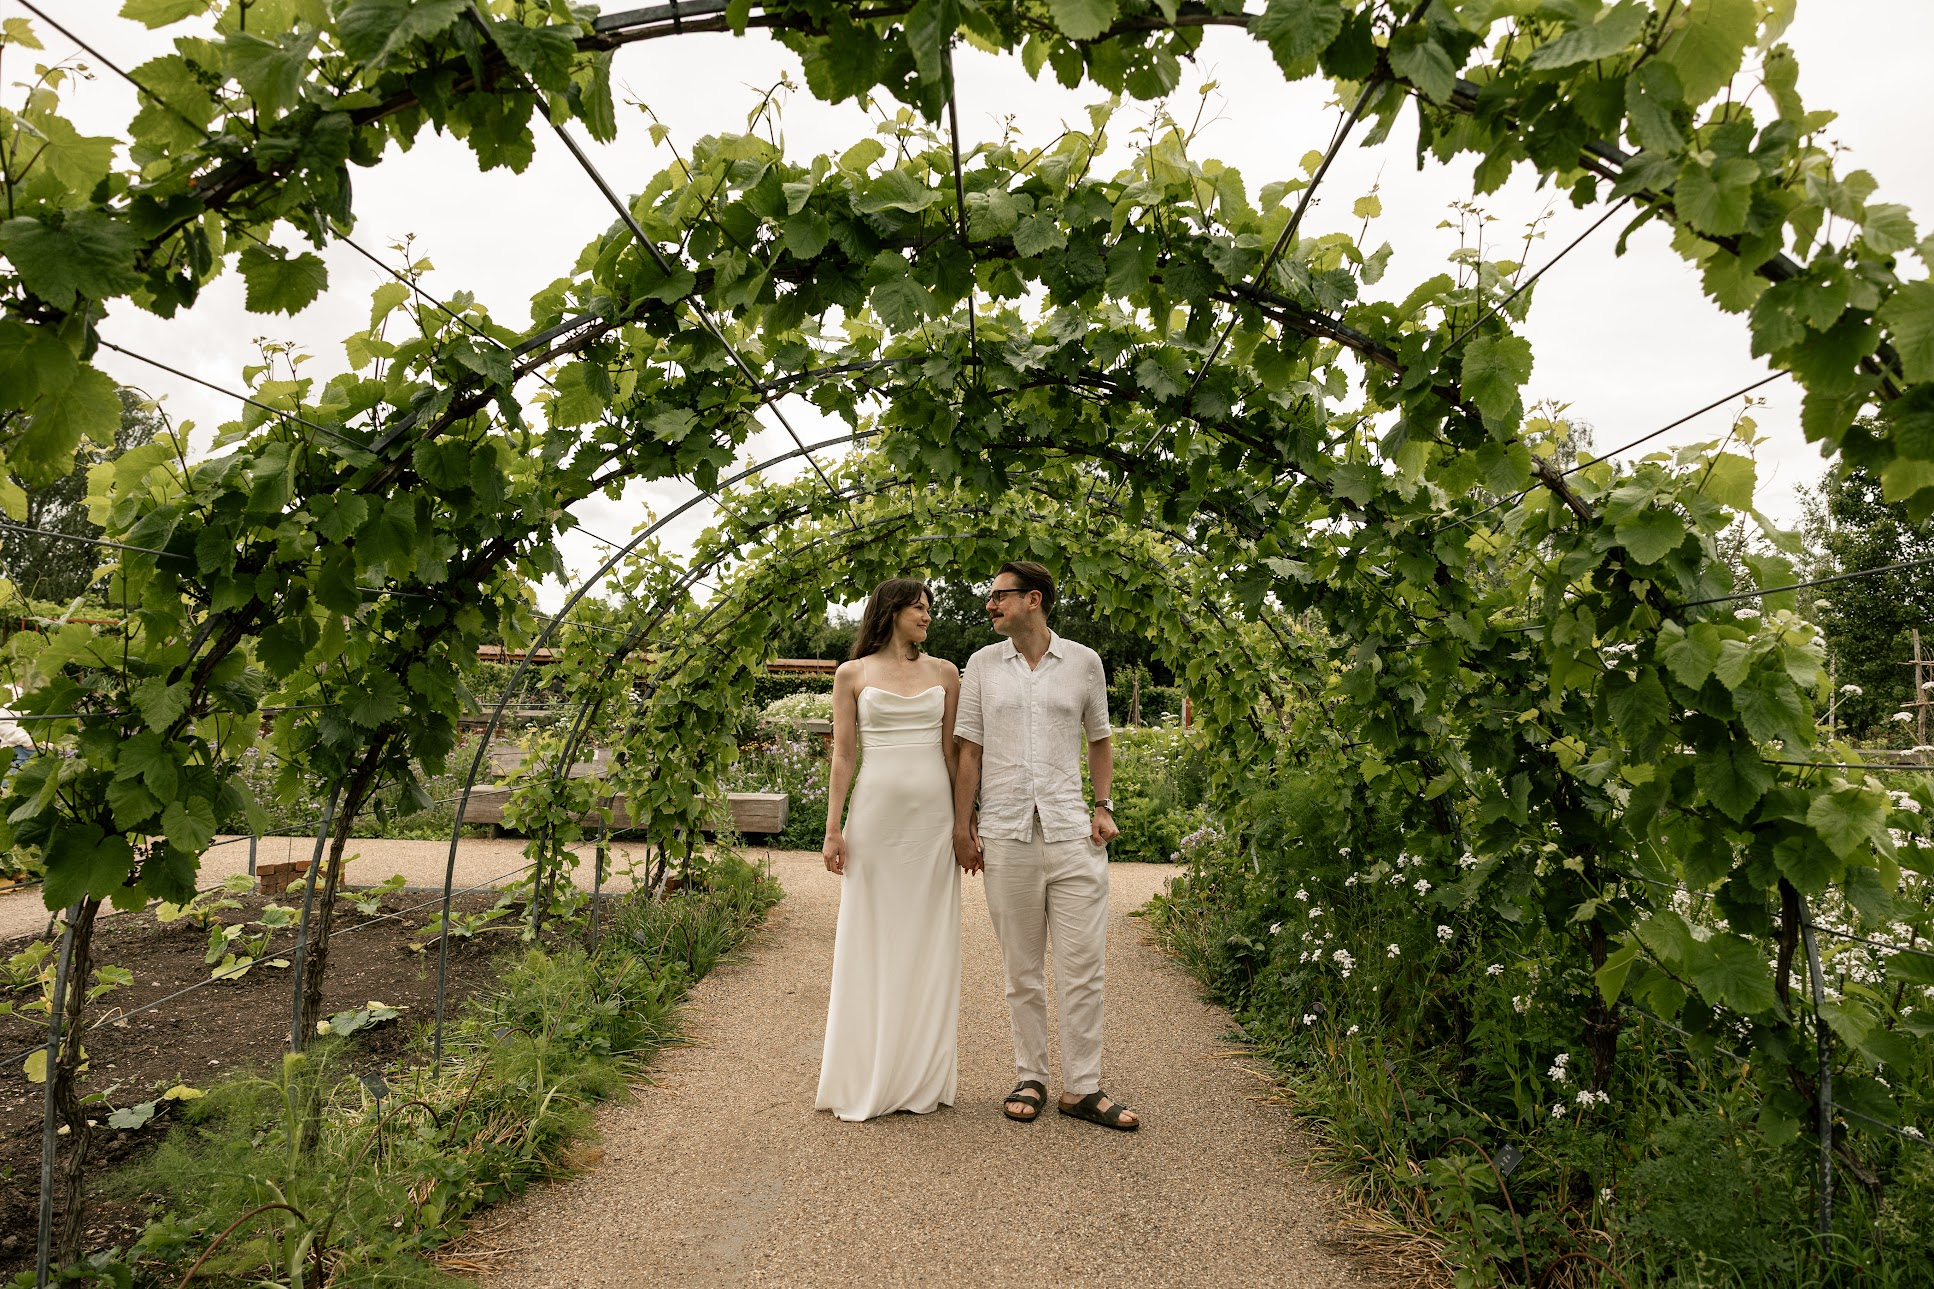
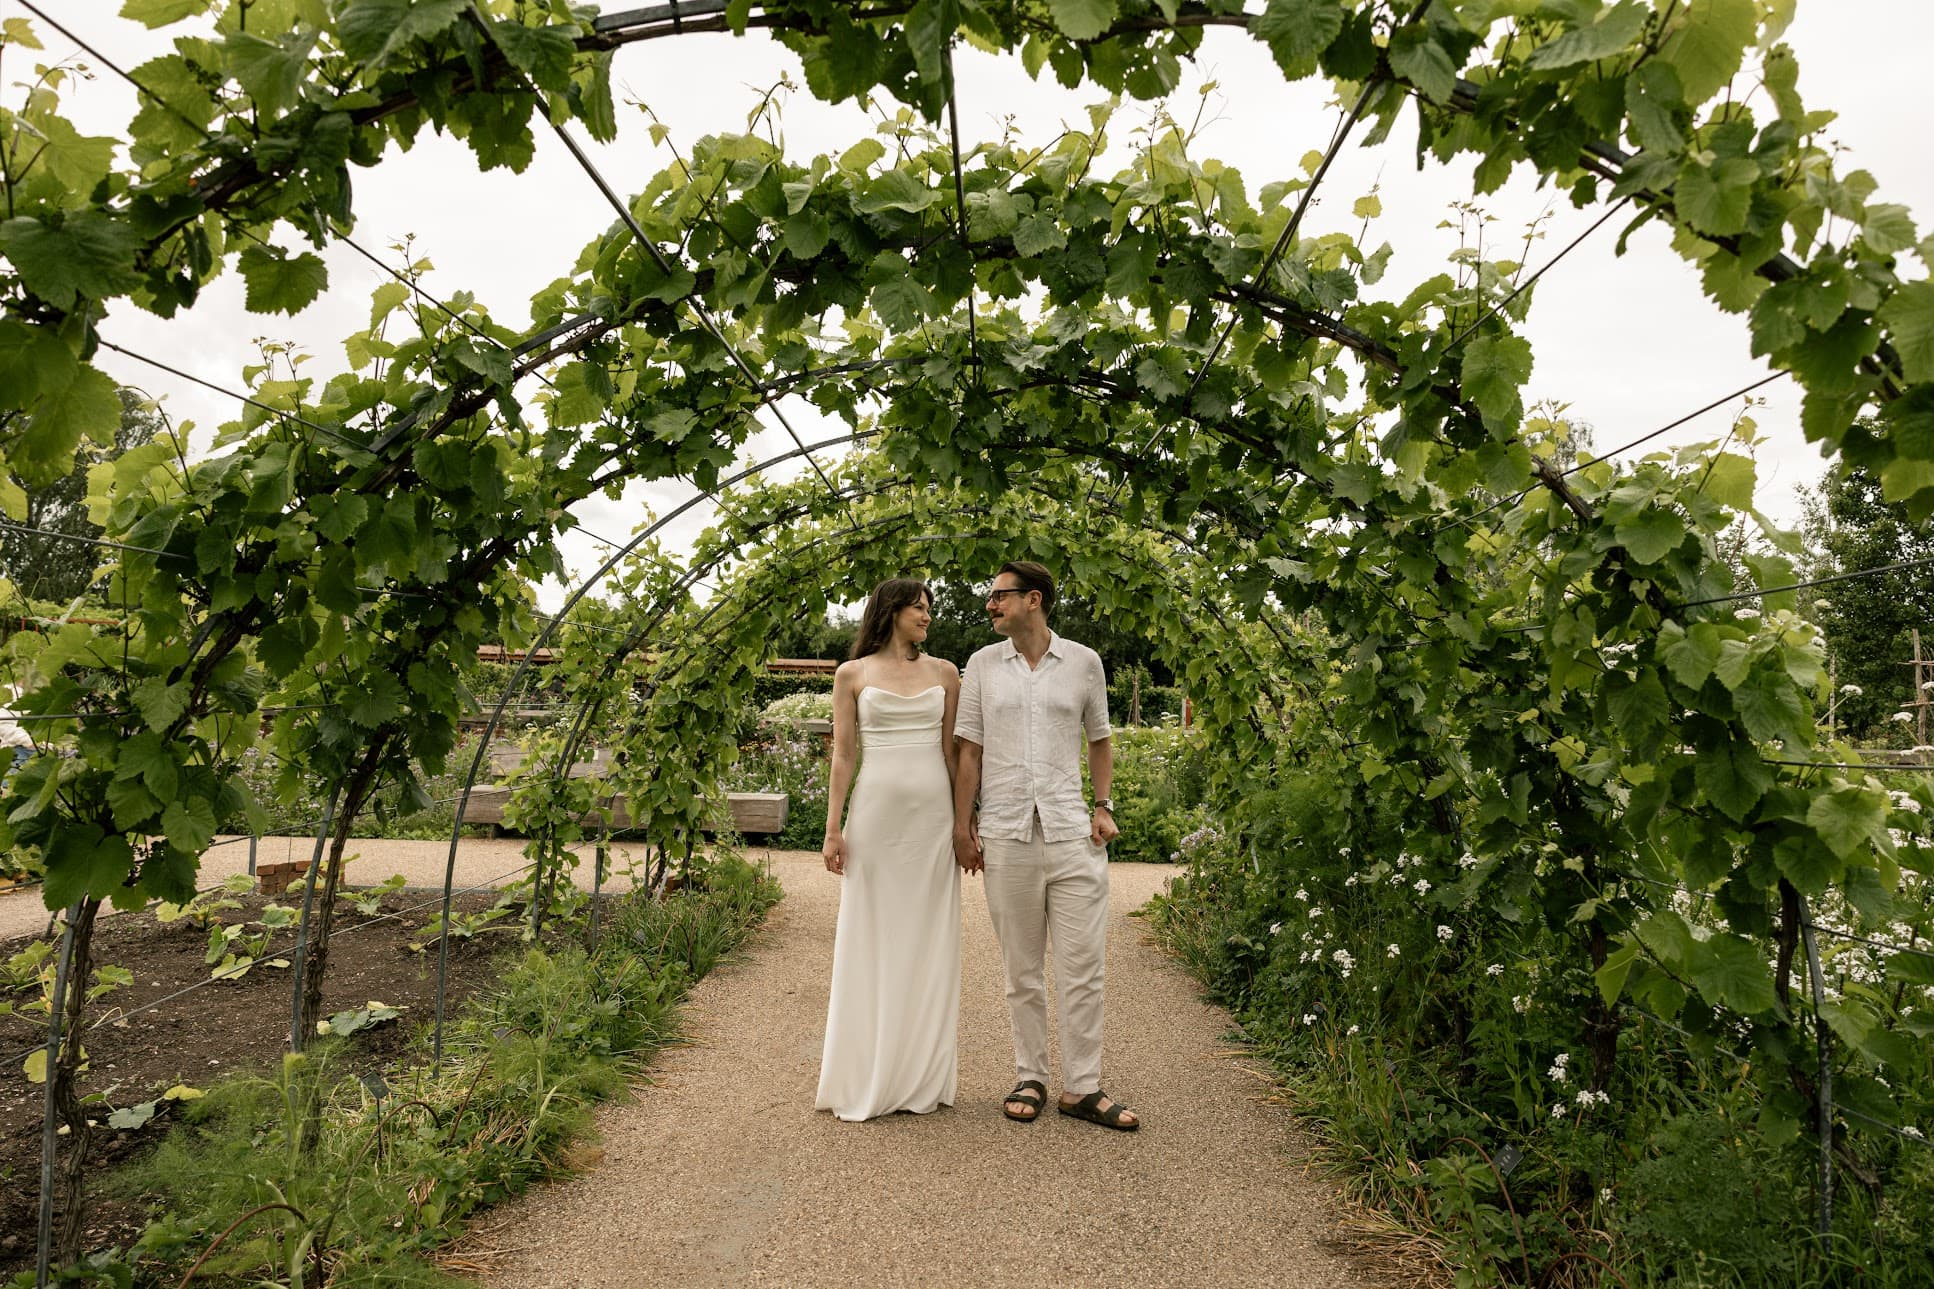
Rsvp update (#4)
* Update content and styling

* Update RSVP form

---------

diff --git a/src/routes/rsvp.jsx b/src/routes/rsvp.jsx
@@ -1,27 +1,20 @@
 import styled from "styled-components";
 import { useState } from "react";
-import { Stack } from "../components/Layout";
+import { Stack, HR } from "../components/Layout";
 import { Heading, Paragraph, ScreenReaderOnly } from "../components/Typography";
 import { Button } from "../components/Button";
 import { FormInput, TwoAnswerQuestion } from "../components/FormInputs";
 
 const RSVP_ENDPOINT =
-  "https://script.google.com/macros/s/AKfycbyTogug2DLGjXcMxBn68KUJ5_nR8tPQ1jwRz4Es4-KSCtjFsclk2okp5ksrZtWxP8RX/exec";
+  "https://script.google.com/macros/s/AKfycbySwaxIGyxwybFtyLyeYJR0xToFsqi4qC2-RX2U-7pf0qrOwxW4-3O49BcYnAtEzhoQ/exec";
 
 const StyledForm = styled.form`
   display: flex;
   flex-direction: column;
-  gap: 1.5rem;
   width: 100%;
   & > button {
     align-self: center;
   }
-`;
-
-const StyledHR = styled.hr`
-  border: none;
-  border-top: 1px solid ${(props) => props.theme.text.body};
-  margin: 2rem 0;
 `;
 
 const FollowUpSection = styled.div`
@@ -43,7 +36,6 @@ const FollowUpSection = styled.div`
 const FollowUpSectionInner = styled.div`
   display: flex;
   flex-direction: column;
-  gap: 1.5rem;
 `;
 
 export const Component = (props) => {
@@ -51,6 +43,7 @@ export const Component = (props) => {
   const [submitError, setSubmitError] = useState(null);
   const [isSubmitting, setIsSubmitting] = useState(false);
   const [attendingSelection, setAttendingSelection] = useState(null);
+  const [bringingChildren, setBringingChildren] = useState(null);
 
   const handleSubmit = async (event) => {
     event.preventDefault();
@@ -93,7 +86,7 @@ export const Component = (props) => {
   };
 
   return (
-    <Stack $alignMobile="center" $gap="2rem" $width="100%">
+    <Stack $alignMobile="center" $width="100%">
       <Heading $size="xl" id="career">
         RSVP
       </Heading>
@@ -126,21 +119,36 @@ export const Component = (props) => {
           <FollowUpSection $collapsed={attendingSelection === "no"}>
             <FollowUpSectionInner>
               <TwoAnswerQuestion
-                name="guestType"
-                label="Are you a 12PM or a 6PM guest?"
+                name="bringingChildren"
+                label="Are you bringing children?"
                 options={[
-                  { label: "12PM", value: "12pm" },
-                  { label: "6PM", value: "6pm" },
+                  { label: "Yes", value: "yes" },
+                  { label: "No", value: "no" },
                 ]}
+                onChange={(event) => setBringingChildren(event.target.value)}
               />
+              <FollowUpSection $collapsed={bringingChildren !== "yes"}>
+                <FollowUpSectionInner>
+                  <FormInput
+                    name="numberOfChildren"
+                    label="Number of children"
+                    type="text"
+                  />
+                  <FormInput
+                    name="agesOfChildren"
+                    label="Ages of children"
+                    type="text"
+                  />
+                </FollowUpSectionInner>
+              </FollowUpSection>
               <FormInput
                 name="dietaryRequirements"
-                label="Dietary requirements"
+                label="Any dietary requirements?"
                 type="text"
               />
               <TwoAnswerQuestion
                 name="roomAtManchesterHall"
-                label="Do you need a room at Manchester Hall?"
+                label="Would you like a room at Manchester Hall?"
                 hint="There are a limited number of rooms available, so we can't guarantee there'll be one for everyone, but we'll do our best!"
                 options={[
                   { label: "Yes", value: "yes" },
@@ -149,7 +157,7 @@ export const Component = (props) => {
               />
             </FollowUpSectionInner>
           </FollowUpSection>
-          <StyledHR />
+          {/* <HR /> */}
           <Button as="button" type="submit" disabled={isSubmitting}>
             {isSubmitting ? "Submitting..." : "Submit"}
           </Button>

diff --git a/src/components/Layout.jsx b/src/components/Layout.jsx
@@ -26,7 +26,8 @@ const Header = styled.header(props => css`
   width: 100%;
   display: flex;
   flex-flow: column;
-  gap: 1rem;
+  gap: ${ props => props.$gap ?? '1rem' };
+  transition: all 0.5s ease;
   @media (max-width: ${props => props.theme.breakpoints.mobile}) {
     justify-content: center;
     align-items: center;
@@ -41,7 +42,7 @@ const Nav = styled.nav(props => css`
   height: fit-content;
   @media (max-width: ${props => props.theme.breakpoints.mobile}) {
     width: 100vw;
-    margin-top: 1rem;
+    /* margin-top: 1rem; */
   }
 `)
 
@@ -60,6 +61,8 @@ const Stack = styled.div(props => css`
   max-width: 100%;
   width: ${props => props.$width ?? 'unset'};
   gap: ${props => props.$gap ?? '1rem'};
+  justify-content: ${props => props.$justify ? props.$justify : 'center'};
+  align-items: ${props => props.$align ? props.$align : 'center'};
   flex-grow: 1;
   @media (max-width: ${props => props.theme.breakpoints.mobile}) {
     width: 100%;
@@ -67,4 +70,12 @@ const Stack = styled.div(props => css`
   }
 `)
 
-export { Cluster, ContentContainer, Header, Main, Nav, Stack }
+const HR = styled.hr`
+  border: none;
+  border-top: 1px solid ${(props) => props.theme.text.body};
+  margin: 0 auto;
+  width: 33%;
+  opacity: 0.55;
+`;
+
+export { Cluster, ContentContainer, Header, Main, Nav, Stack, HR }

diff --git a/src/components/FormInputs.jsx b/src/components/FormInputs.jsx
@@ -5,7 +5,8 @@ const StyledLabel = styled.label(
     display: block;
     font-family: ${(props) => props.theme.fonts.body};
     color: ${(props) => props.theme.text.body};
-    font-size: 1.5rem;
+    font-size: 1.125rem;
+    margin-bottom: 1rem;
   `,
 );
 
@@ -21,13 +22,14 @@ const StyledInput = styled.input(
     border: none;
     border-radius: 0.25rem;
     box-shadow: 0 0 0 1px ${(props) => props.theme.text.body};
+    margin-bottom: 2rem;
     outline: none;
     transition: box-shadow 0.2s ease;
     &:active,
     &:focus {
       box-shadow: 0 0 0 2px ${(props) => props.theme.text.body};
     }
-  `,
+    `,
 );
 
 const StyledFieldset = styled.fieldset(
@@ -35,6 +37,7 @@ const StyledFieldset = styled.fieldset(
     border: none;
     padding: 0;
     margin: 0;
+    margin-bottom: 2rem;
   `,
 );
 
@@ -42,8 +45,8 @@ const StyledLegend = styled.legend(
   (props) => css`
     font-family: ${(props) => props.theme.fonts.body};
     color: ${(props) => props.theme.text.body};
-    font-size: 1.5rem;
-    margin-bottom: 1.5rem;
+    font-size: 1.125rem;
+    margin-bottom: 1rem;
   `,
 );
 

diff --git a/src/routes/gifts.jsx b/src/routes/gifts.jsx
@@ -1,16 +1,20 @@
 import { Stack } from "../components/Layout"
 import { Heading, Paragraph, RollingText } from "../components/Typography"
+import { Button } from "../components/Button"
+import { LightBox } from "../components/LightBox"
 
 
 export const Component = props => {
   return (
-  <Stack $alignMobile='center' $gap='3.5rem'>
+  <Stack $alignMobile='center' $gap='2rem'>
     <Heading $size='xl' id='career'>
       Gifts
     </Heading>
     <Paragraph>
-      Presents aren't necessary, but if you want to give us a gift, we would be grateful for contributions towards our honeymoon in <RollingText terms={['Mexico', 'Vietnam', 'Mauritius', 'Madagascar', 'The Maldives', 'Jamaica', 'St. Lucia']} interval={2000} />.
+      Presents aren't necessary, but if you would like to give us a gift, we'd be grateful for contributions towards our honeymoon in <RollingText terms={['Mexico', 'Vietnam', 'Mauritius', 'Madagascar', 'The Maldives', 'Jamaica', 'St. Lucia']} interval={2000} />.
     </Paragraph>
+    <Button to='/collection' viewTransition>Honeymoon pot</Button>
+    <LightBox src='photo2' />
   </Stack>
   )
 }

diff --git a/src/routes/location.jsx b/src/routes/location.jsx
@@ -1,4 +1,4 @@
-import { Stack } from "../components/Layout";
+import { Stack, HR } from "../components/Layout";
 import {
   ExternalLink,
   Heading,
@@ -29,6 +29,7 @@ export const Component = (props) => {
         </ExternalLink>{" "}
         on Bridge Street, over the road from MOJO (afterparty anyone?)
       </Paragraph>
+      <HR />
       <Heading as="h2" $size="l">
         Getting there
       </Heading>
@@ -40,12 +41,13 @@ export const Component = (props) => {
         Manchester Piccadilly station, and a 15-minute walk from Manchester
         Victoria station.
       </Paragraph>
+      <HR />
       <Heading as="h2" $size="l">
         Nearby car parks
       </Heading>
       {/* <Paragraph>
         There are a number of car parking options close to the venue:
-      </Paragraph> */}
+        </Paragraph> */}
       <UnorderedList>
         <li>
           <ExternalLink
@@ -72,6 +74,7 @@ export const Component = (props) => {
           </ExternalLink>
         </li>
       </UnorderedList>
+      <HR />
       <Heading as="h2" $size="l">
         Nearby hotels
       </Heading>

diff --git a/src/components/Typography.jsx b/src/components/Typography.jsx
@@ -9,15 +9,19 @@ const HeadingSizes =  {
   `,
   xxl: css`
   font-size: 3rem;
+  line-height: 1.1;
   `,
   xl: css`
   font-size: 1.9rem;
+  line-height: 1.1;
   `,
   l: css`
   font-size: 1.5rem;
+  line-height: 1.1;
   `,
   m: css`
   font-size: 1.25rem;
+  line-height: 1.1;
   `
 }
 

diff --git a/src/routes/_index.jsx b/src/routes/_index.jsx
@@ -7,7 +7,7 @@ export const Component = () => (
   <>
     <Heading $size="xxxl">Nat and James</Heading>
     <Button to='/rsvp' viewTransition>RSVP</Button>
-    <Paragraph $size='l'>
+    <Paragraph>
       invite you to celebrate their wedding on Saturday 28th November 2026
     </Paragraph>
     <LightBox src='photo' />

diff --git a/src/templates/PageTemplate.jsx b/src/templates/PageTemplate.jsx
@@ -32,7 +32,7 @@ export const PageTemplate = props => {
     <ScreenReaderOnly  aria-live='polite' aria-atomic='true' as='aside' ref={pageStartRef} tabIndex='-1'>{`Viewing page: ${document.title}`}</ScreenReaderOnly>
     <SkipLink as='a' href='#main-content'>Skip to main content</SkipLink>
     <ContentContainer>
-      <Header role='banner'>
+      <Header $gap={location.pathname === '/' ? '0rem' : '1rem'} role='banner'>
         <Heading $screenReaderOnly={location.pathname === '/'} $size='xl' as={Link} to='/' viewTransition aria-label='Home - Nat and James'>Nat and James</Heading>
         <Nav aria-label='primary'>
           <NavButton to='/rsvp' viewTransition>RSVP</NavButton>